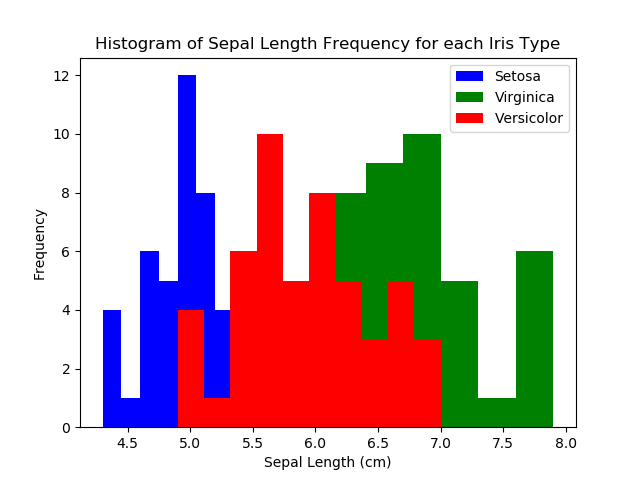
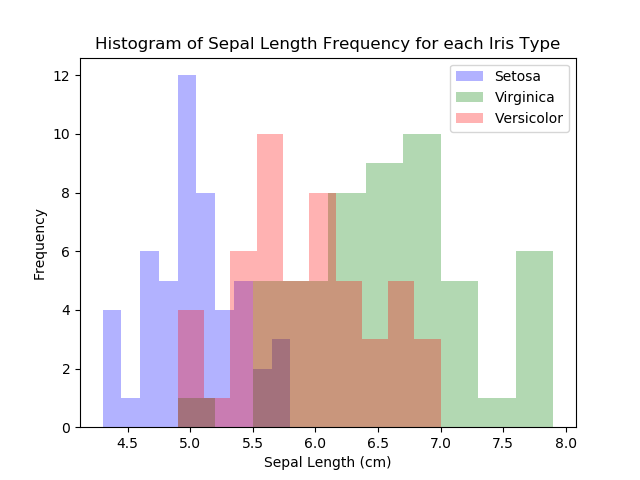
separate histograms now using alpha to make it easier to see overlaps in the data

Changed region(s): [[0.1562, 0.1562, 0.875, 0.9062], [0.6875, 0.125, 0.75, 0.2812]]

diff --git a/irisAnalysis.py b/irisAnalysis.py
@@ -114,9 +114,9 @@ iris_versicolor=df.loc["Iris-versicolor"]
 
 for measurement in df.columns:
     fig, ax = plt.subplots()
-    ax.hist(iris_setosa[measurement], color='b', label='Setosa')
-    ax.hist(iris_virginica[measurement], color='g', label = 'Virginica')
-    ax.hist(iris_versicolor[measurement], color='r', label = 'Versicolor')
+    ax.hist(iris_setosa[measurement], color='b', label='Setosa', alpha =0.3)
+    ax.hist(iris_virginica[measurement], color='g', label = 'Virginica', alpha = 0.3)
+    ax.hist(iris_versicolor[measurement], color='r', label = 'Versicolor', alpha = 0.3)
     name = nameFormat(measurement)
     ax.set_xlabel(name + ' (cm)')
     ax.set_ylabel ("Frequency")
